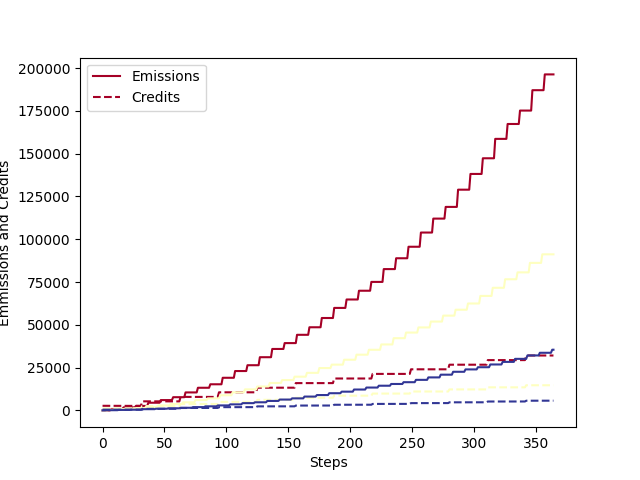
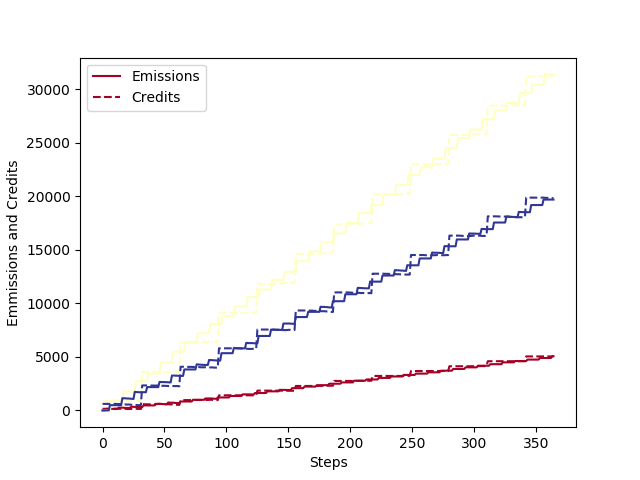
Add files via upload

diff --git a/environment.py b/environment.py
@@ -53,7 +53,6 @@ class Environment:
                 buying_price = self.randomize_prices(original_price - PRICE_CONTROL_VALUE)
                 selling_price = self.randomize_prices(original_price + PRICE_CONTROL_VALUE)
                 allocated_credits = self.allowance_credits[group_number]
-
                 new_agent = Agent(emissions_amount,
                                   allocated_credits,
                                   self.agent_transaction_limit,
@@ -70,9 +69,9 @@ class Environment:
 
         The total allowance credits are divided per month because they are increased daily
         """
-        all_cr = agent.pre_allocated_credits /31 * self.number_of_agents_group #DIvided here by 30 because every day this gets added to the emissions
+        all_cr = agent.pre_allocated_credits_init /CREDITS_ALLOCATION_INTERVAL * self.number_of_agents_group
 
-        min_emission = int(math.floor(all_cr -all_cr * EMISSION_VARIANCE))
+        min_emission = int(math.floor(all_cr - all_cr * EMISSION_VARIANCE))
         max_emission = int(math.floor(all_cr + all_cr * EMISSION_VARIANCE))
         emission_amount = random.randint(min_emission, max_emission)
 
@@ -114,6 +113,22 @@ class Environment:
                 satisfied.append(agent)
 
         return buyers, sellers, satisfied
+
+    def list_buyers_sellers_satisfied2(self):
+        who_buyer = random.sample(range(len(self.agents)), int(math.floor(len(self.agents)/2)))
+        buyers = []
+        sellers = []
+        satisfied = []
+        j = 1
+
+        for agent in self.agents:
+            if (j in who_buyer):
+                buyers.append(agent)
+            else:
+                sellers.append(agent)
+            j = j + 1
+        return buyers, sellers, satisfied
+
 
     def sort_buyers_sellers(self, buyers, sellers):
         """
@@ -267,7 +282,7 @@ class Environment:
         """
         if (step % CREDITS_ALLOCATION_INTERVAL) == 0 and step > 1:
             for agent in self.agents:
-                agent.pre_allocated_credits = agent.pre_allocated_credits + self.allowance_credits[agent.group_number]
+                agent.pre_allocated_credits = agent.pre_allocated_credits + agent.pre_allocated_credits_init
 
     def add_emission(self, step):
         """
@@ -281,8 +296,8 @@ class Environment:
 
         for num in range(self.period * self.number_of_agents_per_group,
                          (self.period + 1) * self.number_of_agents_per_group -1):
-            current_agent = self.agents[num]
-            current_agent.emissions_add(self.randomize_emission_amount(current_agent)) # takes an  agent as an argument
+
+            self.agents[num].emissions_add(self.randomize_emission_amount(self.agents[num])) # takes an  agent as an argument
         self.period = self.period + 1
         if self.period == self.number_of_agents_group:
             self.period = 0
@@ -412,6 +427,8 @@ class Environment:
         #plt.show()
         plt.clf()
 
+        return average_price_sold, average_emission
+
     def do_magic(self, version=1):
         """
             • Buyers list sorted by max price
@@ -425,7 +442,7 @@ class Environment:
         """
 
         for step in range(self.time_steps):
-            buyers, sellers, satisfied = self.list_buyers_sellers_satisfied()
+            buyers, sellers, satisfied = self.list_buyers_sellers_satisfied2()
             sorted_b, sorted_s = self.sort_buyers_sellers(buyers, sellers)
 
             try:
@@ -441,9 +458,11 @@ class Environment:
             self.add_emission(step)
             self.add_credits(step)
 
-        self.statistics()
+        return_pr, average_em = self.statistics()
 
         self.plot_agents()
+
+        return [return_pr,average_em]
 
 
 

diff --git a/main.py b/main.py
@@ -1,8 +1,8 @@
 from environment import Environment
-
-
+import matplotlib.pyplot as plt
+import numpy as np
 """
-200 companies split between 10 groups
+200 companies split between 10 groups (every 10th percentile)
 Groups have the following emissions averages,
 and they're used as a proxy for the initial credits.
 (Subject to having divisor of 32)
@@ -41,14 +41,49 @@ if __name__ == '__main__':
         30528
     ]
 
-    i = 1
+    i = 0
+    runs = 5
+    result_pr =[]
+    result_em = []
+    for i in range(runs):
 
-    env = Environment(number_of_agents_per_group=20,
-                      number_of_agents_group=10,
-                      allowance_credits=allowances,#has to have divisor 32
-                      agent_transaction_limit=20,
-                      time_steps=365,
-                      iterate=i) #??
-    env.create_agents()
-    env.do_magic(version=3)
+        env = Environment(number_of_agents_per_group=20,
+                          number_of_agents_group=10,
+                          allowance_credits=allowances,
+                          agent_transaction_limit=(1 + i * 10 ),
+                          time_steps=365,
+                          iterate=i)
+        env.create_agents()
+        result = env.do_magic(version=3)
+        result_pr.append(result[0])
+        result_em.append(result[1])
+        i = i + 1
+
+    for i in range(len(result_pr)):
+
+        plt.plot(result_pr[i], '-', color=plt.cm.RdYlBu(np.linspace(0, 1, runs)[i]),
+                         label="limit" + str(i*10 +1) + "Price")
+        plt.legend()
+
+    plt.xlabel('Steps')
+    plt.ylabel('Price paid different runs')
+    plt.savefig("pics/"+"limitPrice.png")
+    #plt.show()s
+    plt.clf()
+
+    for i in range(len(result_em)):
+
+        plt.plot(result_em[i], '-', color=plt.cm.RdYlBu(np.linspace(0, 1, runs)[i]),
+                         label="limit" + str(i*10 +1) + "Emission")
+        plt.legend()
+
+    plt.xlabel('Steps')
+    plt.ylabel('Emissions average different runs')
+    plt.savefig("pics/"+"limitEmission.png")
+    #plt.show()s
+    plt.clf()
+
+
+
+
 

diff --git a/agent.py b/agent.py
@@ -16,7 +16,8 @@ class Agent:
                  group=0):
 
         self.emissions_amount = emissions_amount
-        self.pre_allocated_credits = pre_allocated_credits
+        self.pre_allocated_credits = pre_allocated_credits/3 #start with a third of the credits saved from last year!
+        self.pre_allocated_credits_init = pre_allocated_credits
         self.max_buying_price = max_buying_price
         self.max_buying_price_init = max_buying_price
         self.min_selling_price = min_selling_price
@@ -56,7 +57,7 @@ class Agent:
         """
         self.min_selling_price_series[step] = self.min_selling_price
         if len(self.deals_sold[step]) != 0:
-            self.min_selling_price = self.min_selling_price_init
+            self.min_selling_price = max(self.max_buying_price, self.min_selling_price + abs(self.original_price - self.min_selling_price) * UPDATE_RATE)
         else:
             self.min_selling_price = max(self.max_buying_price, self.min_selling_price - abs(self.original_price - self.min_selling_price) * UPDATE_RATE)
 
@@ -67,7 +68,7 @@ class Agent:
         """
         self.max_buying_price_series[step] = self.max_buying_price
         if len(self.deals_bought[step]) != 0:
-            self.max_buying_price = self.max_buying_price_init
+            self.max_buying_price = min(self.min_selling_price, self.max_buying_price - abs(self.max_buying_price - self.original_price) * UPDATE_RATE)
         else:
             self.max_buying_price = min(self.min_selling_price, self.max_buying_price + abs(self.max_buying_price - self.original_price) * UPDATE_RATE)
 
